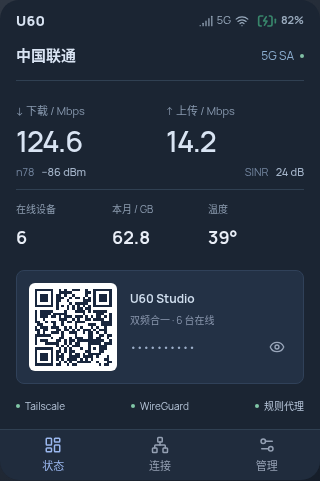
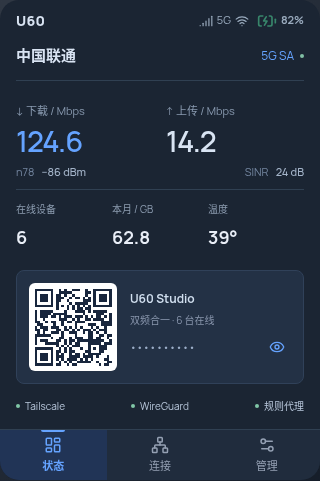
docs(design): refresh screen accent previews and color guidance

diff --git a/design/product-ui/README.md b/design/product-ui/README.md
@@ -32,6 +32,10 @@ bash design/product-ui/preview.sh
 
 屏幕预览旁边有快捷场景按钮。PIN 演示值为 `1234`；语言设置展示选项与保存流程，正文当前以简体中文评审。
 
+屏幕强调色可在预览旁的色板、屏幕「管理 → 屏幕与安全 → 强调色」，或 Web 的屏幕设置中调整。提供六种预设和 `#RRGGBB` 自定义色，浏览器会记住选择。重点读数、趋势线、选中导航、按钮和解锁提示使用同一强调色；文字自动保证对比度，充电与告警保留各自的状态颜色。[橙色示例](previews/product-screen-accent-orange.png)。
+
+公开截图使用中性示例名称的发布预览，例如 `http://127.0.0.1:5176/?view=screen&presentation=public`；切换页面与初版风格会保留该模式。
+
 实际设备继续使用 Rust + Slint。浏览器里的屏幕原型用于审阅尺寸、信息密度和交互；它不替代设备版的字体、触摸、性能与功耗验证。
 
 ## 截图
